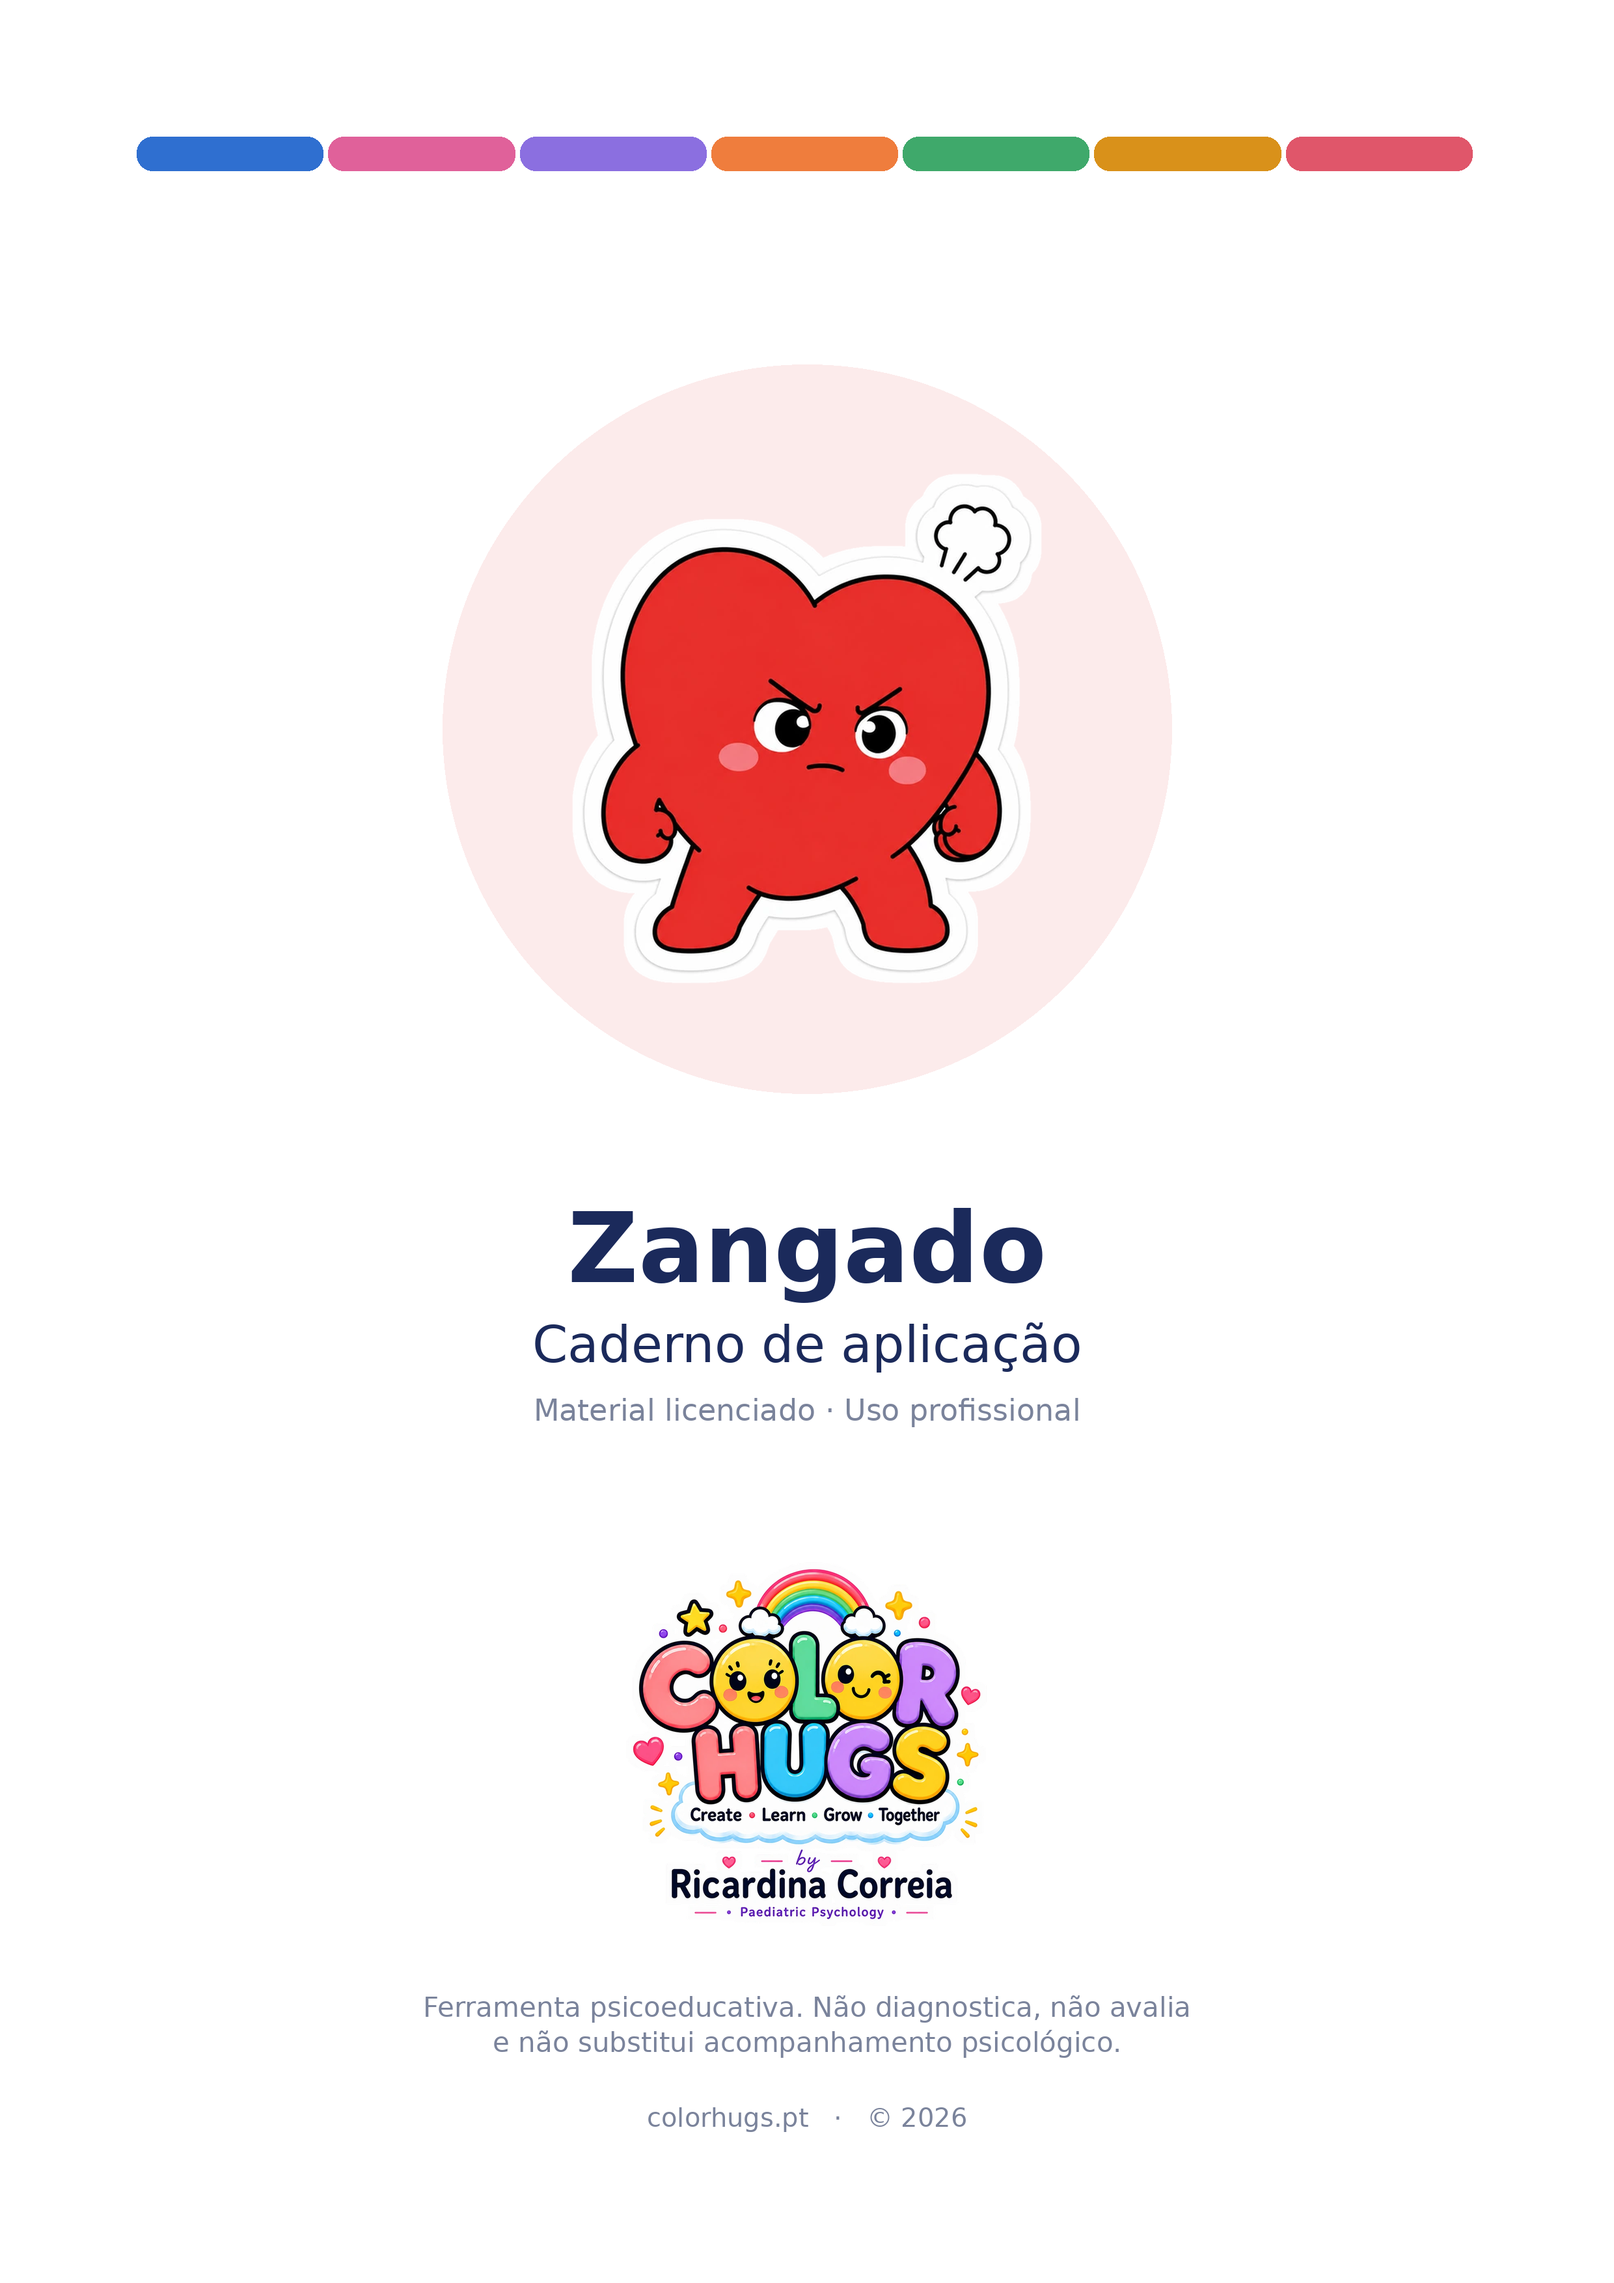
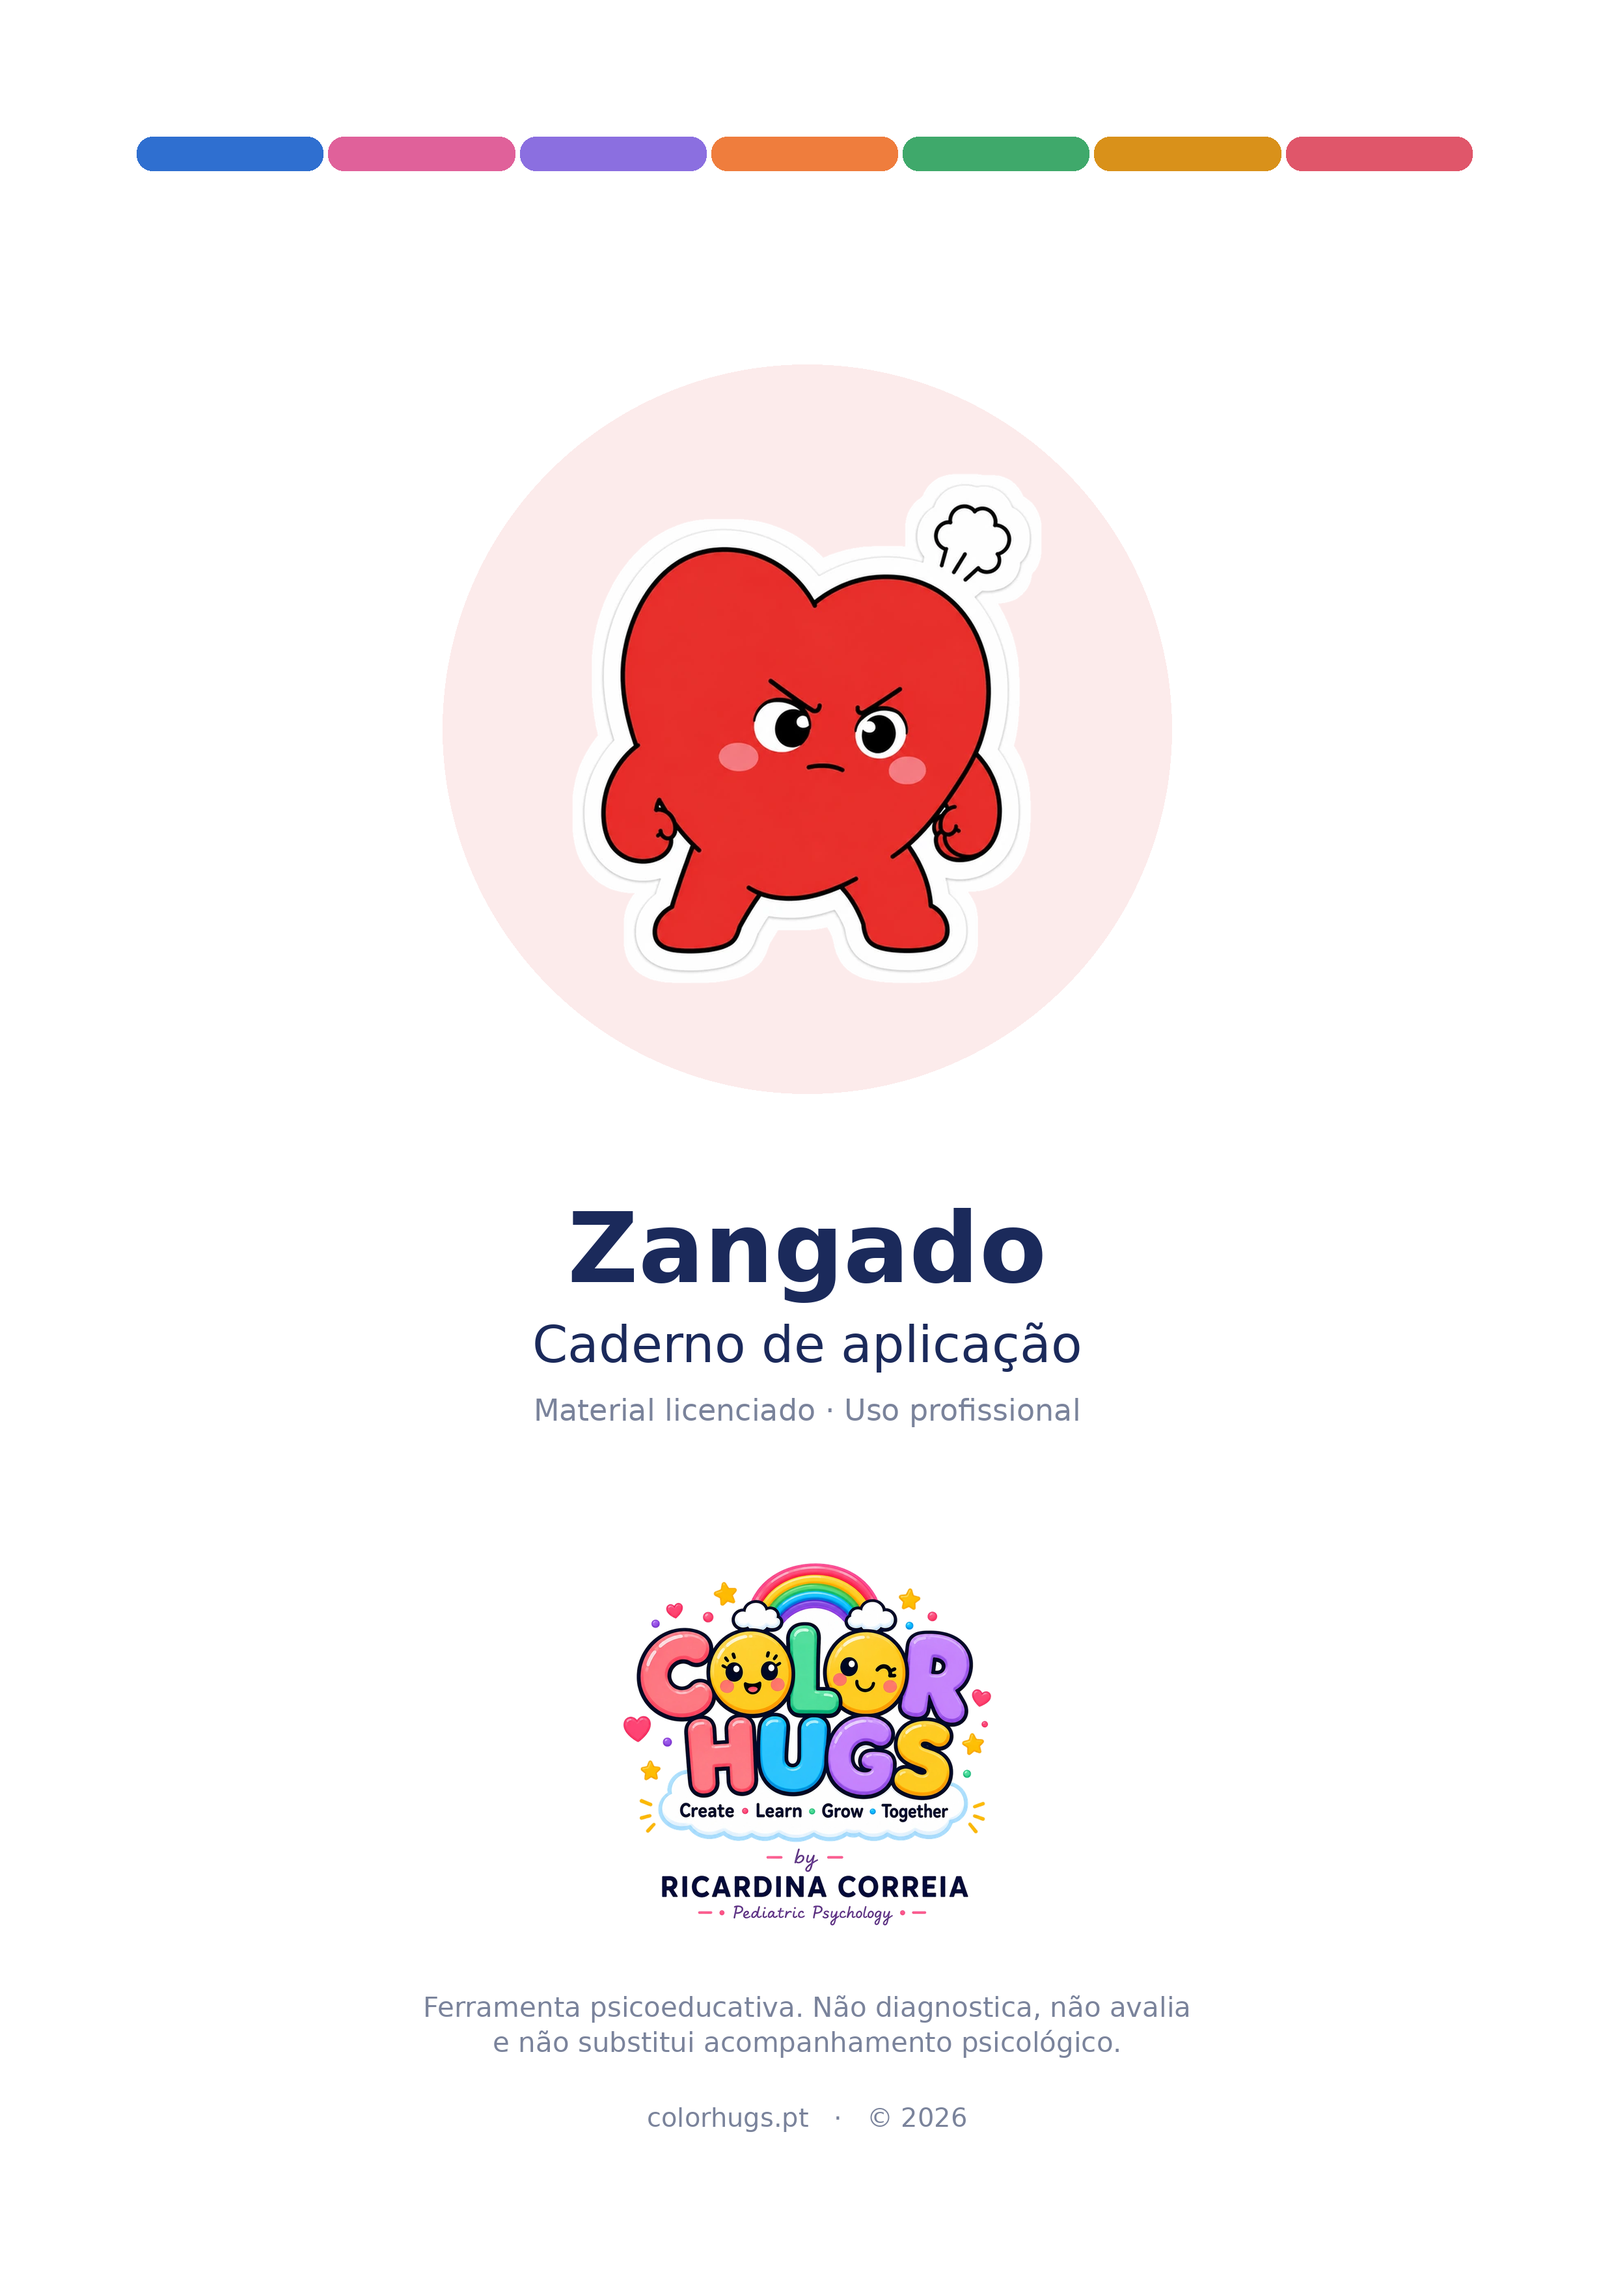
add

Changed region(s): [[0.3726, 0.6836, 0.621, 0.8389]]

diff --git a/docs/DECISION_LOG.md b/docs/DECISION_LOG.md
@@ -2658,3 +2658,18 @@ line to restore is left in place, commented, for when the mark is registered.
 **`/preview` is deliberately unchanged.** It carries the full artwork on every
 page, and that is wanted: it is where the brand is being developed and reviewed.
 It is unlinked and not indexed, which is the accepted trade.
+
+### D-167 `[IMPLEMENTATION]` Both endorsed lockups regenerated with the correct spelling
+*Pediatric*, not *Paediatric*, verified by enlarging the line rather than
+trusting the thumbnail: the parents lockup reads *by Ricardina Correia ·
+Pediatric Psychology* in script, the professional one *RICARDINA CORREIA* above
+*Pediatric Psychology*.
+
+**Two, not one.** The parents lockup was missed on the first pass because the
+search was run over the code and the code has no idea what a picture says. Text
+inside artwork is invisible to every tool that finds text — which is the cost
+D-081 exists to avoid, showing itself again.
+
+Processed without a die-cut rim: a lockup is a mark, not a collectable (D-083).
+The angry workbook cover regenerates from the new file and now carries the
+correct spelling.
